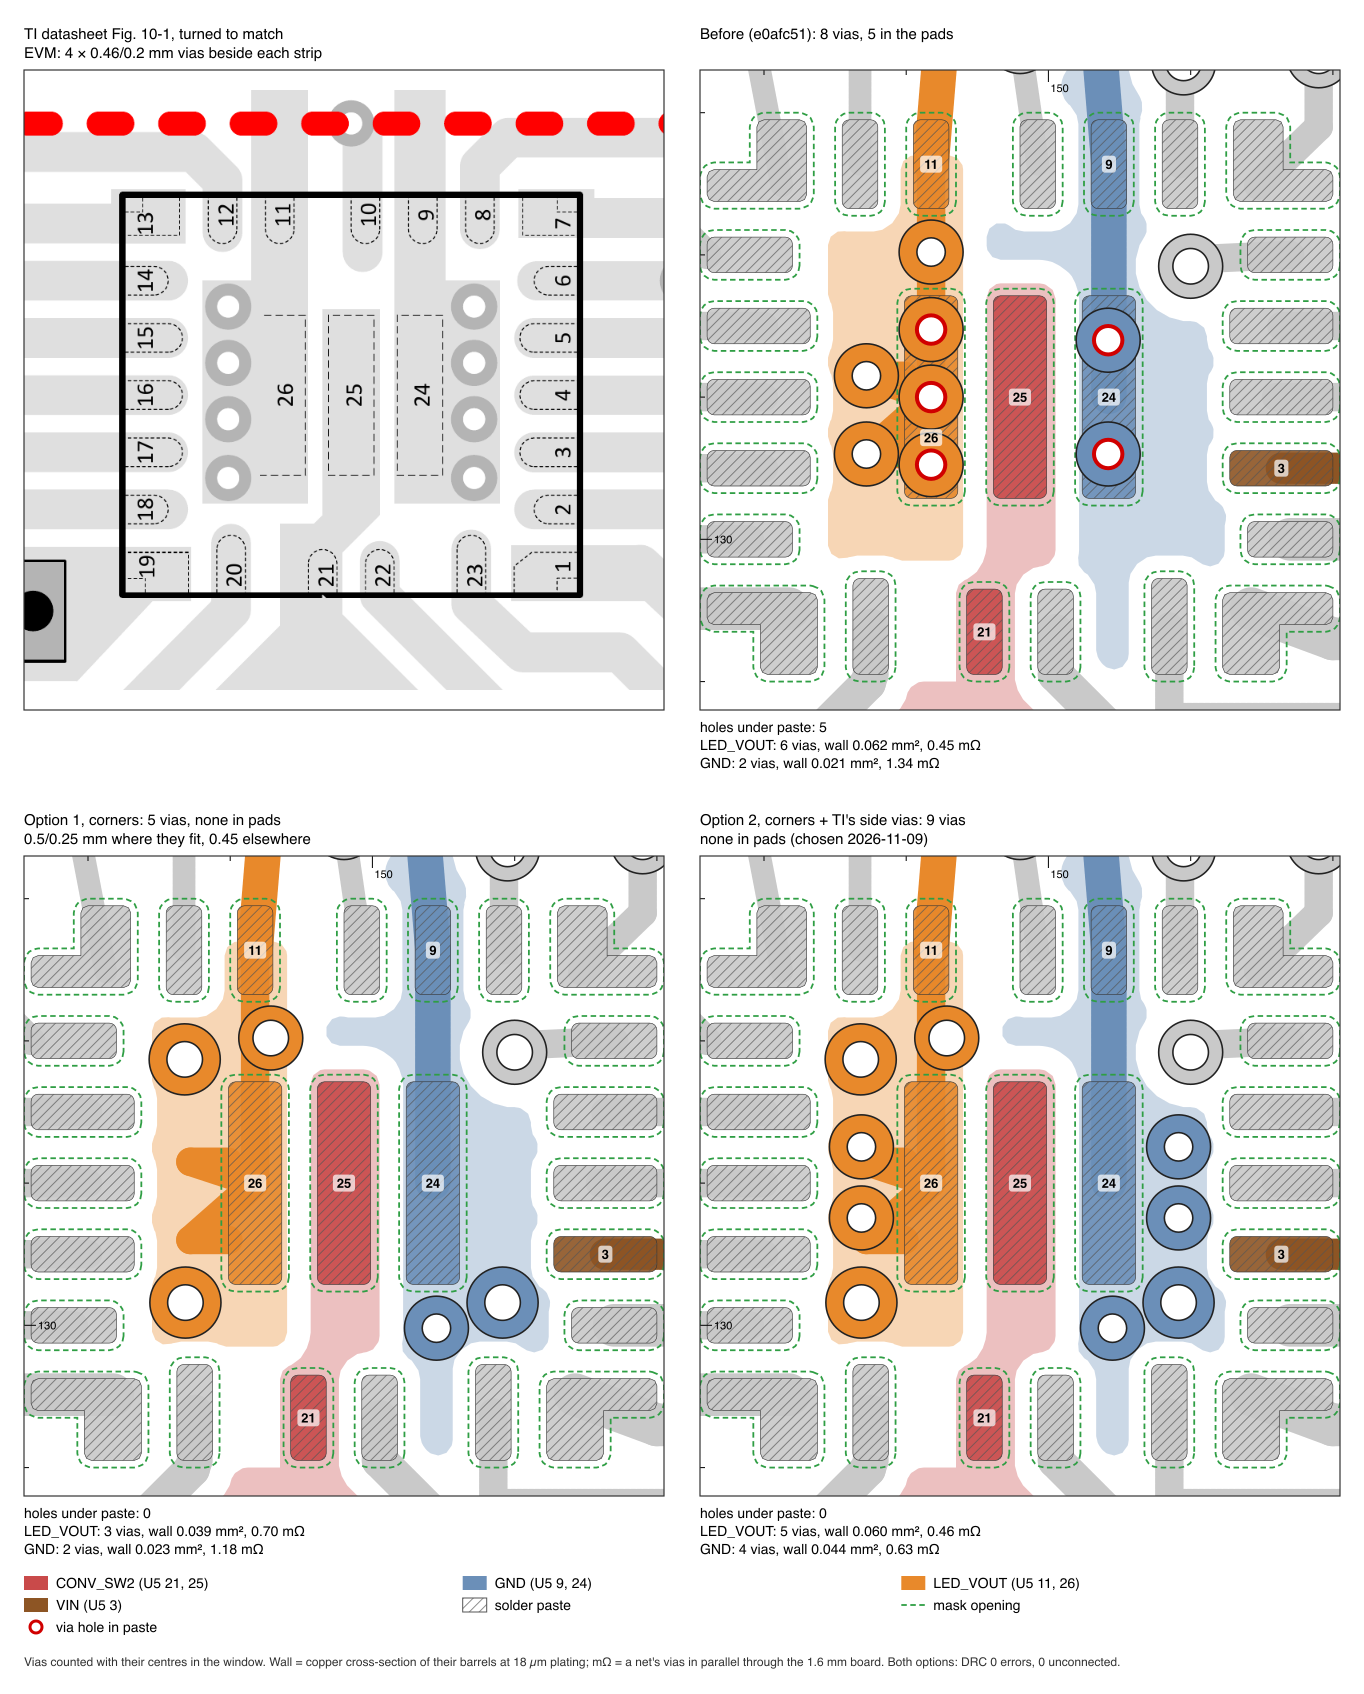
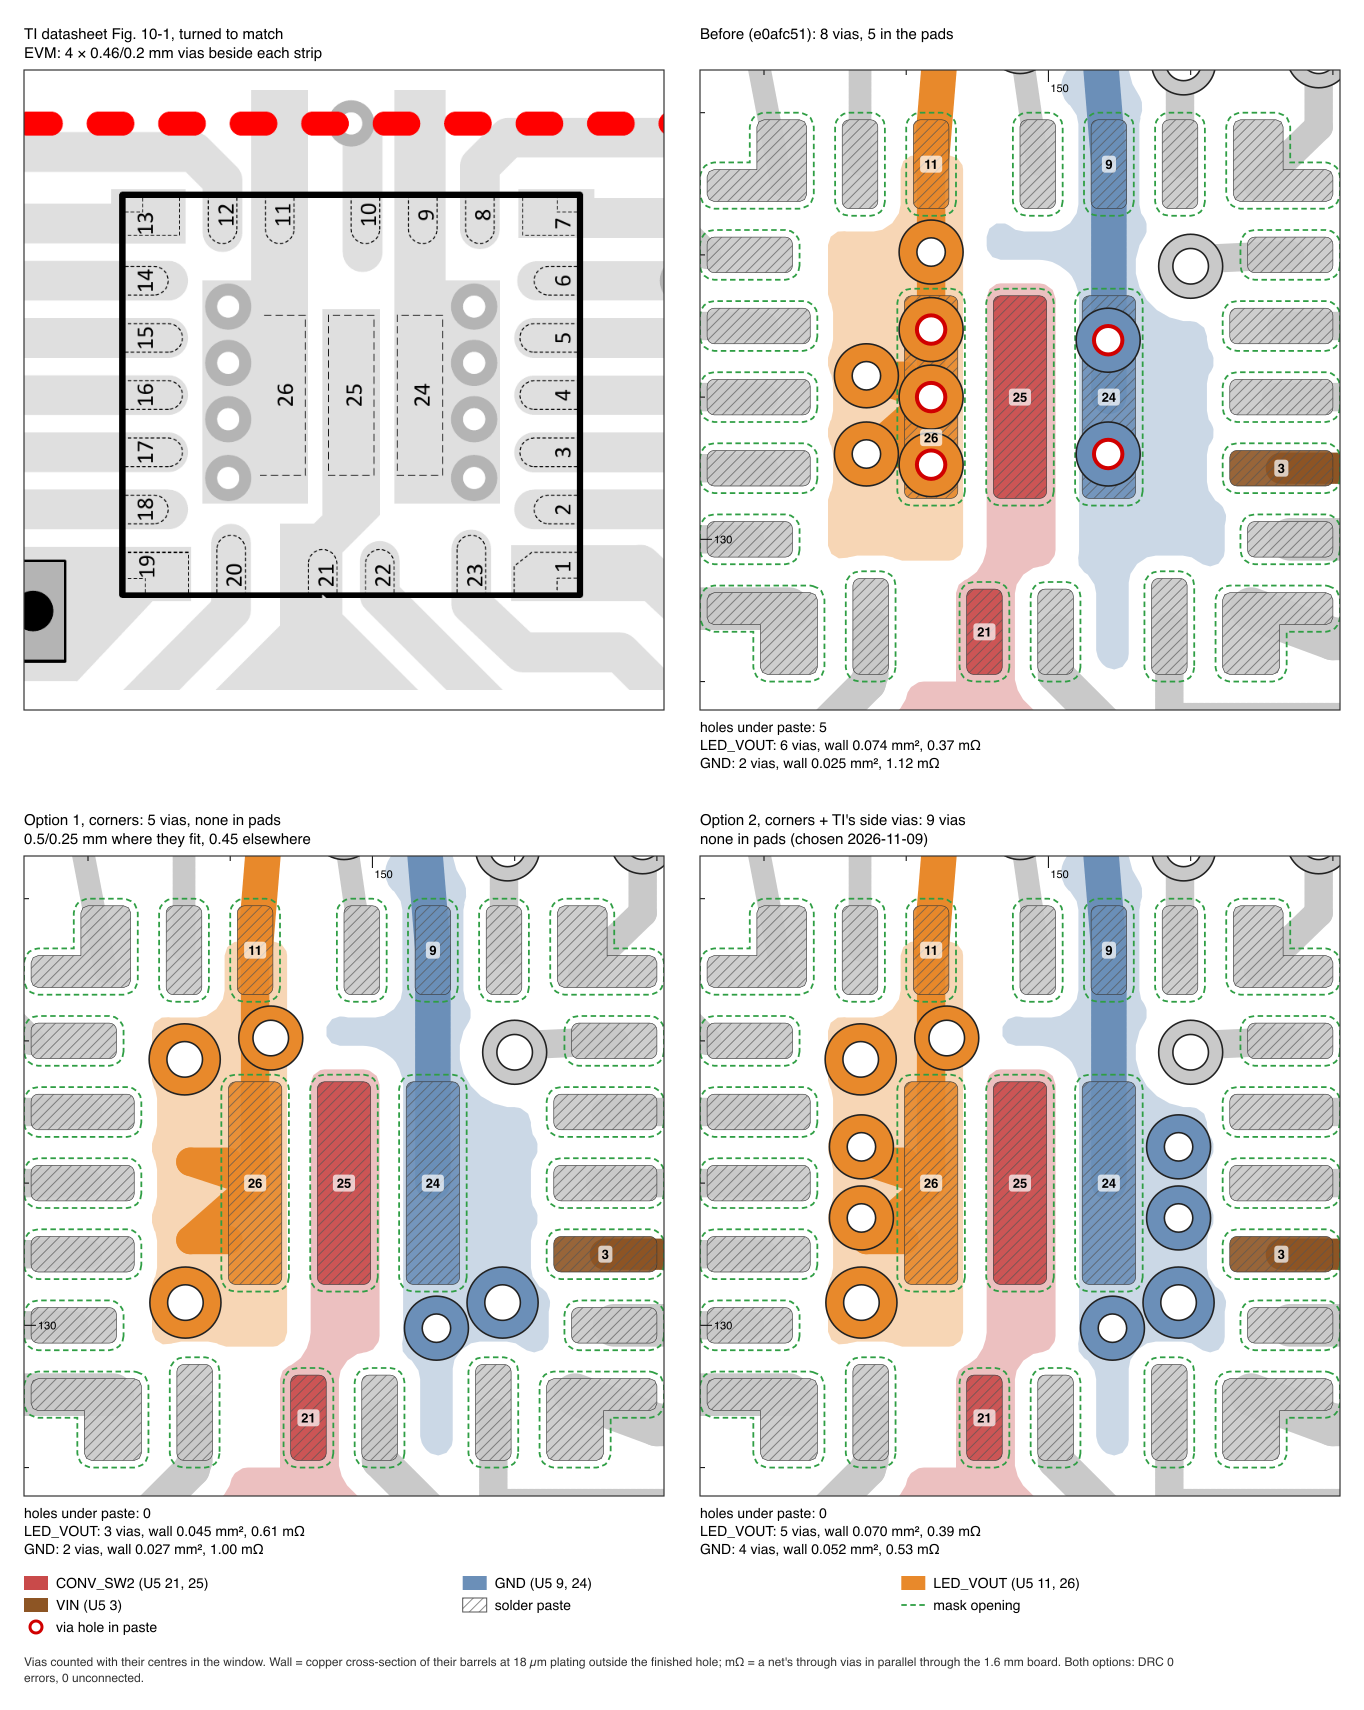
netview: plating outside the finished hole, pads reaching into the window, through vias only
Review on PR #29:

- KiCad's via drill is the finished hole (JLC's drill tables give the
  size after plating), so a barrel's copper is pi (drill + t) t, not
  pi (drill - t) t. A 0.2 mm via through 1.6 mm is 2.23 mOhm, not 2.67.
  The U5 picture is redrawn: same counts, copper 13-17 % higher, and
  Option 2 keeps 95 % of the VOUT via copper rather than "within 3 %".
- A pad whose copper reaches into the window but whose centre is
  outside was drawn but left out of the legend and unlabelled. It now
  counts when any of its copper is inside, and its number goes on the
  visible part (C210 pad 2 on dodeca's U201 sheet).
- --metrics put blind and micro vias in parallel with through vias at
  the full board thickness. They are now counted apart ("1 blind/micro
  not counted") and left out of the copper and resistance.

Two new tests; the footnote test reads the wrapped footnote as text.

diff --git a/pcbkit/netview.py b/pcbkit/netview.py
@@ -23,7 +23,8 @@ Comparing layout options: the same window of several boards side by side, in the
 board, then each --compare board in order; "\\n" in a title starts a new line. With --compare, --ref, --title or
 --metrics the output is a sheet: a title over each panel, its numbers under it, one legend and a footnote. The
 numbers count the vias whose centres are in the window: with --detail, holes under paste; for each --metrics net, its
-vias, their barrels' copper cross-section at 18 um plating and their resistance in parallel through the board.
+through vias, their barrels' copper cross-section (18 um plating outside the finished hole) and their resistance in
+parallel through the board. Blind and micro vias are counted apart and left out of the copper and resistance.
 --note adds to the footnote (the DRC result of each option, say).
 """
 import argparse
@@ -74,13 +75,14 @@ def make_colour(table):
 
 
 def via_ohms(drill, thickness, plating=PLATING):
-    """Resistance of one via barrel through a board thickness mm thick: a copper tube of wall pi (drill - t) t."""
+    """Resistance of one via barrel through a board thickness mm thick: a copper tube of wall pi (drill + t) t."""
     return RHO_CU * thickness * 1e-3 / (wall_area(drill, plating) * 1e-6)
 
 
 def wall_area(drill, plating=PLATING):
-    """Copper cross-section of a via barrel in mm^2."""
-    return math.pi * (drill - plating) * plating
+    """Copper cross-section of a via barrel in mm^2. KiCad's drill is the finished hole, so the plating lies outside
+    it: the fab drills drill + 2t (JLC's drill tables give the size after plating)."""
+    return math.pi * (drill + plating) * plating
 
 
 def _rings(ps, T):
@@ -145,8 +147,9 @@ def _text_box(x, y, text, size=13):
 def draw(pcbnew, b, layer_name, win, colour, scale, detail=False):
     """One board's window on one layer, as SVG elements in px with the window's top-left corner at the origin.
 
-    Returns {"svg": [...], "vias": [(x, y, size, drill, net, in_paste)], "pads": {net: {ref: {numbers}}},
-    "nets": {nets with copper in the window}, "thickness": mm}; positions in mm."""
+    Returns {"svg": [...], "vias": [(x, y, size, drill, net, in_paste, through)], "pads": {net: {ref: {numbers}}},
+    "nets": {nets with copper in the window}, "thickness": mm}; positions in mm. A pad counts for "pads" and "nets"
+    when any of its copper is inside the window."""
     T, F = pcbnew.ToMM, pcbnew.FromMM
     x0, y0, x1, y1 = win
     X = lambda v: (v - x0) * scale  # noqa: E731
@@ -195,7 +198,8 @@ def draw(pcbnew, b, layer_name, win, colour, scale, detail=False):
             p = t.GetPosition()
             x, y, d = T(p.x), T(p.y), T(t.GetWidth(layer))
             if t.IsOnLayer(layer) and x0 - d < x < x1 + d and y0 - d < y < y1 + d:
-                via_list.append([x, y, d, T(t.GetDrillValue()), t.GetNetname(), False])
+                via_list.append([x, y, d, T(t.GetDrillValue()), t.GetNetname(), False,
+                                 t.GetViaType() == pcbnew.VIATYPE_THROUGH])
                 nets.add(t.GetNetname())
         elif t.GetLayer() == layer and overlaps(t.GetBoundingBox()):
             nets.add(t.GetNetname())
@@ -228,7 +232,13 @@ def draw(pcbnew, b, layer_name, win, colour, scale, detail=False):
             net, polys = p.GetNetname(), shape(p, layer) if on_cu else []
             pc = p.GetPosition()
             px, py = T(pc.x), T(pc.y)
-            if polys and x0 < px < x1 and y0 < py < y1:
+            seen = None                 # the part of the pad's copper inside the window, as a box
+            if polys:
+                xs = [x for o, _ in polys for x, _ in o]
+                ys = [y for o, _ in polys for _, y in o]
+                seen = (max(min(xs), x0), max(min(ys), y0), min(max(xs), x1), min(max(ys), y1))
+                seen = seen if seen[0] < seen[2] and seen[1] < seen[3] else None
+            if seen:
                 nets.add(net)
                 pad_nets.setdefault(net, {}).setdefault(fp.GetReference(), set()).add(p.GetNumber())
             look = 'stroke="#333" fill-opacity="0.9"' if detail else 'stroke="black"'
@@ -250,10 +260,8 @@ def draw(pcbnew, b, layer_name, win, colour, scale, detail=False):
                     s = p.GetSize(layer)
                     q.SetSize(layer, pcbnew.VECTOR2I(s.x + 2 * m.x, s.y + 2 * m.y))
                     aperture(shape(q, layer), "paste")
-            if polys and colour(net) != OTHER and x0 < px < x1 and y0 < py < y1:
-                xs = [x for o, _ in polys for x, _ in o]
-                ys = [y for o, _ in polys for _, y in o]
-                number_at.append((p.GetNumber(), min(xs), min(ys), max(xs), max(ys)))
+            if seen and colour(net) != OTHER:
+                number_at.append((p.GetNumber(), *seen))
         if detail:
             for g in fp.GraphicalItems():
                 if g.GetLayer() in (mask_layer, paste_layer):
@@ -272,7 +280,7 @@ def draw(pcbnew, b, layer_name, win, colour, scale, detail=False):
                 aperture(shape(g, g.GetLayer()), "mask" if g.GetLayer() == mask_layer else "paste")
 
     for v in via_list:
-        x, y, d, drill, net, _ = v
+        x, y, d, drill, net = v[:5]
         v[5] = bool(detail) and circle_hits(x, y, drill / 2, paste_polys)
         thick = 1.6 if detail else 1
         vias.append(f'<circle cx="{X(x):.2f}" cy="{Y(y):.2f}" r="{d / 2 * scale:.2f}" fill="{colour(net)}" '
@@ -371,13 +379,15 @@ def sheet(boards, out, x0, y0, x1, y1, layer_name="B.Cu", colours=None, detail=F
         inside = [v for v in view["vias"] if x0 < v[0] < x1 and y0 < v[1] < y1]
         lines = [f"holes under paste: {sum(1 for v in inside if v[5])}"] if paste else []
         for key in metrics:
-            vs = [v for v in inside if v[4] == key or v[4].split("/")[-1] == key]
+            on_net = [v for v in inside if v[4] == key or v[4].split("/")[-1] == key]
+            vs = [v for v in on_net if v[6]]          # blind and micro vias span part of the board: not counted
+            other = f", {len(on_net) - len(vs)} blind/micro not counted" if len(vs) < len(on_net) else ""
             if not vs:
-                lines.append(f"{key}: no vias")
+                lines.append(f"{key}: no {'through ' if other else ''}vias{other}")
                 continue
             ohms = 1 / sum(1 / via_ohms(v[3], view["thickness"]) for v in vs)
             lines.append(f"{key}: {len(vs)} vias, wall {sum(wall_area(v[3]) for v in vs):.3f} mm², "
-                         f"{ohms * 1000:.2f} mΩ")
+                         f"{ohms * 1000:.2f} mΩ{other}")
         return lines
 
     panels = [("ref", path, title) for path, title in refs] + [("board", v, t) for v, (_p, t) in zip(views, boards)]
@@ -440,8 +450,8 @@ def sheet(boards, out, x0, y0, x1, y1, layer_name="B.Cu", colours=None, detail=F
     if metrics:
         thick = views[0]["thickness"] if views else 1.6
         foot.append(f"Vias counted with their centres in the window. Wall = copper cross-section of their barrels "
-                    f"at {PLATING * 1000:.0f} µm plating; mΩ = a net's vias in parallel through the "
-                    f"{thick:g} mm board.")
+                    f"at {PLATING * 1000:.0f} µm plating outside the finished hole; mΩ = a net's through vias in "
+                    f"parallel through the {thick:g} mm board.")
     if note:
         foot.append(note)
     lines = _wrap(" ".join(foot), int((W - 2 * M) / 6.0))

diff --git a/tests/test_netview.py b/tests/test_netview.py
@@ -30,10 +30,10 @@ WINDOW = (-3.0, -3.0, 3.0, 3.0)
 
 class Numbers(unittest.TestCase):
     def test_via_resistance(self):
-        """A 0.2 mm via through 1.6 mm with 18 um plating is 2.67 mOhm; 0.25 mm is 2.10 (the U5 study's figures)."""
-        self.assertAlmostEqual(netview.via_ohms(0.2, 1.6) * 1000, 2.674, places=3)
-        self.assertAlmostEqual(netview.via_ohms(0.25, 1.6) * 1000, 2.098, places=3)
-        self.assertAlmostEqual(netview.wall_area(0.2), math.pi * 0.182 * 0.018)
+        """A 0.2 mm finished hole through 1.6 mm with 18 um plating outside it is 2.23 mOhm; 0.25 mm is 1.82."""
+        self.assertAlmostEqual(netview.via_ohms(0.2, 1.6) * 1000, 2.232, places=3)
+        self.assertAlmostEqual(netview.via_ohms(0.25, 1.6) * 1000, 1.816, places=3)
+        self.assertAlmostEqual(netview.wall_area(0.2), math.pi * 0.218 * 0.018)
 
     def test_circle_against_a_polygon_with_a_hole(self):
         square = [(0, 0), (2, 0), (2, 2), (0, 2)]
@@ -81,14 +81,14 @@ class Detail(unittest.TestCase):
             p.SetNet(self.net(net))
         return p
 
-    def via(self, x, y, net, size=0.45, drill=0.2):
+    def via(self, x, y, net, size=0.45, drill=0.2, blind=False):
         pcbnew = self.pcbnew
         v = pcbnew.PCB_VIA(self.board)
         v.SetPosition(self.mm(x, y))
         v.SetWidth(pcbnew.FromMM(size))
         v.SetDrill(pcbnew.FromMM(drill))
-        v.SetViaType(pcbnew.VIATYPE_THROUGH)
-        v.SetLayerPair(pcbnew.F_Cu, pcbnew.B_Cu)
+        v.SetViaType(pcbnew.VIATYPE_BLIND if blind else pcbnew.VIATYPE_THROUGH)
+        v.SetLayerPair(pcbnew.F_Cu, pcbnew.In1_Cu if blind else pcbnew.B_Cu)
         self.board.Add(v)
         v.SetNet(self.net(net))
         return v
@@ -129,6 +129,17 @@ class Detail(unittest.TestCase):
         texts = [re.sub("<[^>]+>", "", e) for e in self.draw()["svg"] if "font-weight=\"bold\"" in e]
         self.assertEqual(sorted(t for t in texts if t), ["1", "2"])  # VOUT and GND have colours; the aperture none
 
+    def test_a_pad_reaching_into_the_window_is_in_the_legend(self):
+        """Its centre is outside the window, but its copper is drawn, so its net and number are listed and labelled."""
+        fp = self.part()
+        self.pad(fp, "3", WINDOW[0] - 0.5, 0, 2.0, 1.0, (self.pcbnew.F_Cu,), "VOUT")
+        self.pad(fp, "4", WINDOW[0] - 1.5, 0, 0.5, 0.5, (self.pcbnew.F_Cu,), "VOUT")   # wholly outside
+        view = self.draw()
+        self.assertEqual(view["pads"]["VOUT"], {"U1": {"1", "3"}})
+        texts = [re.sub("<[^>]+>", "", e) for e in view["svg"] if "font-weight=\"bold\"" in e]
+        self.assertIn("3", texts)
+        self.assertNotIn("4", texts)
+
     def test_an_arc_track_is_drawn_as_its_outline(self):
         """No corpus board has arc tracks; a chord would cut across whatever the arc goes round."""
         pcbnew = self.pcbnew
@@ -164,7 +175,27 @@ class Detail(unittest.TestCase):
         self.assertIn(f"{ohms:.2f} mΩ", text)
         self.assertIn("GND: no vias", text)
         self.assertIn("VOUT (U1 1)", text)
-        self.assertIn("DRC clean.", text)
+        prose = " ".join(re.sub("<[^>]+>", " ", text).split())       # the footnote wraps over several lines
+        self.assertIn("parallel through the 1.6 mm board. DRC clean.", prose)
+
+    def test_sheet_leaves_blind_vias_out_of_the_copper(self):
+        """A blind via spans part of the board: it is counted apart, not put in parallel with the through vias."""
+        self.board.SetCopperLayerCount(4)
+        self.part()
+        self.via(-2.2, 0.3, "VOUT")
+        self.via(-2.2, -0.5, "VOUT", blind=True)
+        self.via(2.2, 0.3, "GND", blind=True)
+        with tempfile.TemporaryDirectory() as d:
+            board = os.path.join(d, "b.kicad_pcb")
+            kicad.save_board(self.board, board)
+            out = os.path.join(d, "sheet.svg")
+            netview.sheet([(board, "Option")], out, *WINDOW, layer_name="F.Cu", detail=True,
+                          metrics=["VOUT", "GND"])
+            with open(out, encoding="utf-8") as fh:
+                text = fh.read()
+        self.assertIn(f"VOUT: 1 vias, wall {netview.wall_area(0.2):.3f} mm², "
+                      f"{netview.via_ohms(0.2, 1.6) * 1000:.2f} mΩ, 1 blind/micro not counted", text)
+        self.assertIn("GND: no through vias, 1 blind/micro not counted", text)
 
 
 if __name__ == "__main__":

diff --git a/CHANGELOG.md b/CHANGELOG.md
@@ -14,11 +14,13 @@ skill's instructions, and a patch version (0.x.y) is for fixes only. How to cut 
   any via hole that lands in paste. `--compare BOARD=TITLE` puts the same window of more boards on one sheet, after
   `--ref IMAGE=TITLE` images such as the datasheet's layout figure (`--ref-rotate` turns them to match the board):
   each net in one colour across every panel, a title over each, the numbers under it, one legend and a footnote.
-  `--metrics NET,...` counts the vias in the window per net, with their barrels' copper cross-section and their
-  resistance in parallel through the board (18 um plating); `--note` adds to the footnote. `--colour NET=#rrggbb`
-  sets one net's colour, and `--fill` fills the zones in memory first. Drawn from the siebenuhr controller v3 study
-  of U5's vias (2026-11-09), whose matplotlib picture it reproduces with the same numbers
-  (`docs/images/via-options-tps55288.webp`). On the sign controller it finds all nine vias in U4's exposed pad in
+  `--metrics NET,...` counts the through vias in the window per net, with their barrels' copper cross-section and
+  their resistance in parallel through the board (18 um plating outside KiCad's drill, which is the finished hole;
+  blind and micro vias are counted apart); `--note` adds to the footnote. `--colour NET=#rrggbb` sets one net's
+  colour, and `--fill` fills the zones in memory first. Drawn from the siebenuhr controller v3 study of U5's vias
+  (2026-11-09), whose matplotlib picture it reproduces (`docs/images/via-options-tps55288.webp`) with the same counts;
+  the study put the plating inside the drill, so its copper figures were 13 % (0.25 mm) to 17 % (0.2 mm) low, and
+  the options compare the same way. On the sign controller it finds all nine vias in U4's exposed pad in
   its paste windows; on dodeca v1.3's BQ25890 the vias sit between them. Tests in `tests/test_netview.py`.
 - **`pcbkit courtyards`: courtyards that don't describe their part.** DRC's placement checks trust each footprint's
   courtyard, so one that misses its pads or body lets a part be placed on it and DRC passes. On espcandle-pcb's base

diff --git a/skills/visual-review/SKILL.md b/skills/visual-review/SKILL.md
@@ -53,12 +53,13 @@ from one sheet than from a table, and the sheet shows what a table hides.
 
 Worked example ([via-options-tps55288.webp](../../docs/images/via-options-tps55288.webp)), siebenuhr controller v3,
 2026-11-09. U5 is a TPS55288 buck-boost in TI's HotRod package, with three long strip pads under it. Five of the
-board's eight vias there were open holes inside the strips, under paste: a 0.2 mm barrel holds about 0.034 mm³,
-more than one strip's whole paste deposit (0.027 mm³), and JLC can't plug a via in or within 0.35 mm of a pad. TI's
+board's eight vias there were open holes inside the strips, under paste: a 0.2 mm hole through the 1.6 mm board
+holds 0.050 mm³, almost twice one strip's whole paste deposit (0.027 mm³), and JLC can't plug a via in or within
+0.35 mm of a pad. TI's
 figure and EVM put the vias beside the strips. A search of the board for free spots (the via's copper 0.16 mm from
 other nets on every layer and 0.02 mm from every mask opening, holes 0.25 mm apart, on its own net's copper on both
 layers it joins) found three of U5's corners and, with 0.007 mm to spare, TI's side spots. Option 2 uses both: no
-hole under paste, the VOUT via copper within 3 %, PGND's doubled. The sheet also shows what the study's first
+hole under paste, 95 % of the VOUT via copper kept, PGND's doubled. The sheet also shows what the study's first
 picture left out, since it drew no tracks: Option 1's copy kept the tracks that led to two of the vias it removed.
 
 ```bash

diff --git a/README.md b/README.md
@@ -153,8 +153,7 @@ When there are a few ways to lay something out, build each as a copy of the boar
 net in one colour across every panel, paste hatched, mask openings dashed, any via hole that lands in paste ringed
 red, and the numbers that decide it under each panel. On siebenuhr's controller v3 it showed five open via holes
 inside the strip pads of a TPS55288 buck-boost, under the paste. The option chosen moves every via off the pads, to
-the part's corners and beside the strips where TI's figure and EVM put them, and keeps the VOUT via copper within
-3 %:
+the part's corners and beside the strips where TI's figure and EVM put them, and keeps 95 % of the VOUT via copper:
 
 <img src="docs/images/via-options-tps55288.webp" width="720" alt="Four panels of the TPS55288's pads: TI's layout figure with vias beside the strip pads, the board before with five via holes ringed red inside the strips, and two options with vias moved to the corners and beside the strips, numbers under each">
 
